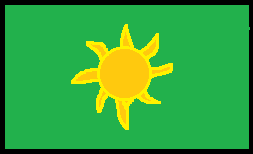
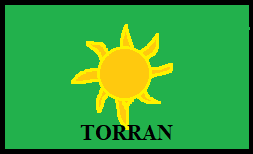
Added Production Buttons for Torran
Also updated flags to show faction names

Changed region(s): [[0.3043, 0.8052, 0.6917, 0.9091]]

diff --git a/inputLayer.cpp b/inputLayer.cpp
@@ -70,7 +70,7 @@ inputLayer::inputLayer(mainMenu* inputMainMenu, sf::RenderWindow* myWindow, sf::
 	factoryButtons.at(4).mySprite.setTextureRect(rectArray[2][4]);      //Recon
 	factoryButtons.at(5).mySprite.setTextureRect(rectArray[31][4]);     //Technical
 	factoryButtons.at(6).mySprite.setTextureRect(rectArray[4][4]);      //APC
-	factoryButtons.at(7).mySprite.setTextureRect(rectArray[26][4]);     //IFV
+	factoryButtons.at(7).mySprite.setTextureRect(rectArray[25][4]);     //IFV
 	factoryButtons.at(8).mySprite.setTextureRect(rectArray[5][4]);      //Artillery	
 	factoryButtons.at(9).mySprite.setTextureRect(rectArray[3][4]);      //Armor
 	factoryButtons.at(10).mySprite.setTextureRect(rectArray[28][4]);     //Assault gun
@@ -78,7 +78,10 @@ inputLayer::inputLayer(mainMenu* inputMainMenu, sf::RenderWindow* myWindow, sf::
 	factoryButtons.at(12).mySprite.setTextureRect(rectArray[7][4]);      //Anti-Aircraft
 	factoryButtons.at(13).mySprite.setTextureRect(rectArray[8][4]);      //Rocket
 	factoryButtons.at(14).mySprite.setTextureRect(rectArray[6][4]);      //Heavy Armor
-	factoryButtons.at(15).mySprite.setTextureRect(rectArray[27][4]);      //Modern Armor
+	factoryButtons.at(15).mySprite.setTextureRect(rectArray[26][4]);      //Modern Armor
+	factoryButtons.at(16).mySprite.setTextureRect(rectArray[34][4]);      //Super Heavy Armor
+	factoryButtons.at(17).mySprite.setTextureRect(rectArray[33][4]);      //Victory Launcher
+	factoryButtons.at(18).mySprite.setTextureRect(rectArray[35][4]);      //Cavalry
 
 
 	//Airbase buttons
@@ -100,9 +103,9 @@ inputLayer::inputLayer(mainMenu* inputMainMenu, sf::RenderWindow* myWindow, sf::
 	airbaseButtons.at(0).mySprite.setTextureRect(rectArray[10][4]);  //Transport_Copter
 	airbaseButtons.at(1).mySprite.setTextureRect(rectArray[9][4]);   //Attack_Copter
 	airbaseButtons.at(2).mySprite.setTextureRect(rectArray[11][4]);  //Interceptor
-	airbaseButtons.at(2).mySprite.setTextureRect(rectArray[25][4]);  //Advanced_Fighter
-	airbaseButtons.at(2).mySprite.setTextureRect(rectArray[21][4]);  //Multirole
-	airbaseButtons.at(3).mySprite.setTextureRect(rectArray[12][4]);  //Bomber
+	airbaseButtons.at(3).mySprite.setTextureRect(rectArray[24][4]);  //Advanced_Fighter
+	airbaseButtons.at(4).mySprite.setTextureRect(rectArray[20][4]);  //Multirole
+	airbaseButtons.at(5).mySprite.setTextureRect(rectArray[12][4]);  //Bomber
 
 	//Naval buttons
 	y = 0;	//Reset counters
@@ -302,9 +305,10 @@ int inputLayer::printSingleTile(int screenX, int screenY, int actualX, int actua
 					else if (tileToPrint->withinRange == true		//Attack and transport square 
 						&& (boardToPrint->cursor.selectMinionPointer->status == gaveupmovehasntfired
 							|| boardToPrint->cursor.selectMinionPointer->status == hasmovedhasntfired)
-						&& (boardToPrint->cursor.selectMinionPointer->specialtyGroup == smallTransport || boardToPrint->cursor.selectMinionPointer->specialtyGroup == largeTransport))
+						&& (boardToPrint->cursor.selectMinionPointer->specialtyGroup == smallTransport || boardToPrint->cursor.selectMinionPointer->specialtyGroup == largeTransport)
+						&& (tileToPrint->hasMinionOnTop == false || tileToPrint->minionOnTop->team == boardToPrint->playerFlag))
 					{
-						//If this tile is within range for drop off
+						//If this tile is within range for drop off AND doesn't have enemy minion
 						effectsSprite.setTextureRect(rectArray[4][2]);
 						inputLayerWindow->draw(effectsSprite);
 					}

diff --git a/inputLayer.hpp b/inputLayer.hpp
@@ -105,7 +105,8 @@ public:
 	std::vector <Button>* menuButtons;
 	std::vector <std::string> factoryOptions{ "Infantry", "Insurgent", "Operative", "Specialist", "Recon", "Technical",
 												"APC", "IFV", "Artillery", "Armor", "Assault_Gun", "Upgunned_Armor",
-												"Anti-Aircraft", "Rocket", "Heavy_Armor", "Modern_Armor" };
+												"Anti-Aircraft", "Rocket", "Heavy_Armor", "Modern_Armor", "Super_Heavy_Armor",
+												"Victory_Launcher", "Cavalry"};
 	std::vector <Button> factoryButtons;
 
 	std::vector <std::string> airbaseOptions{ "Transport_Copter", "Attack_Copter", "Interceptor",
